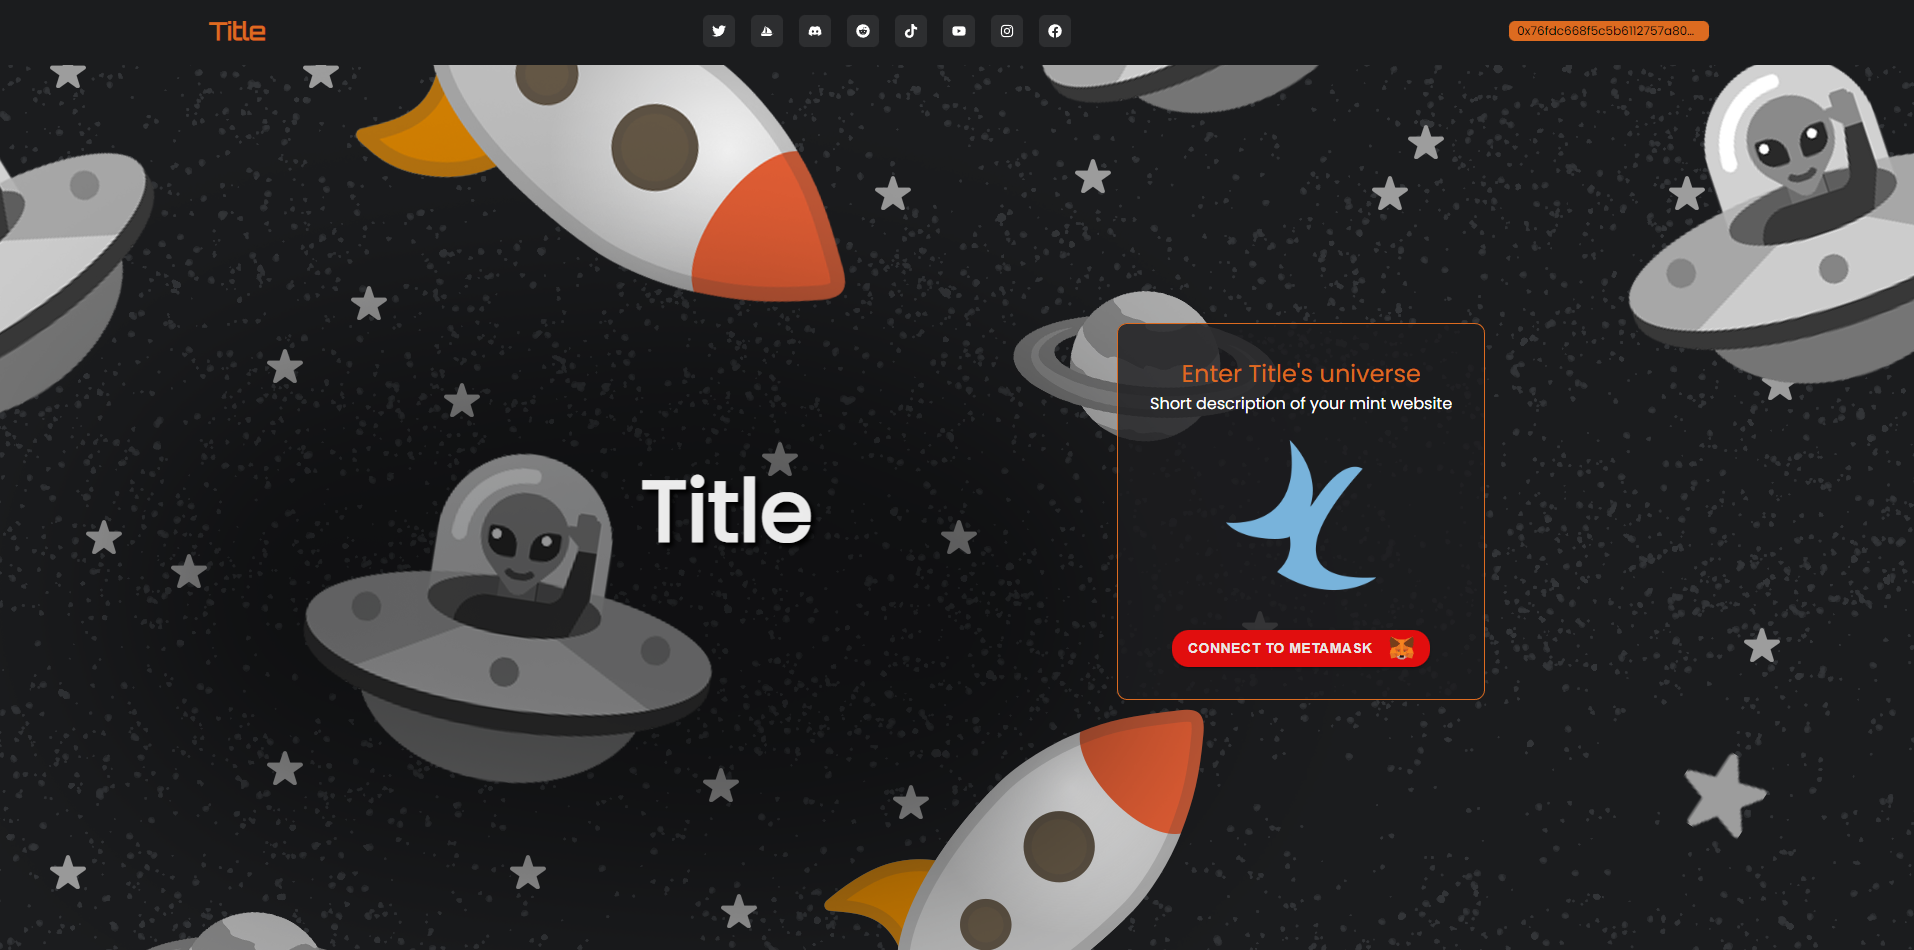
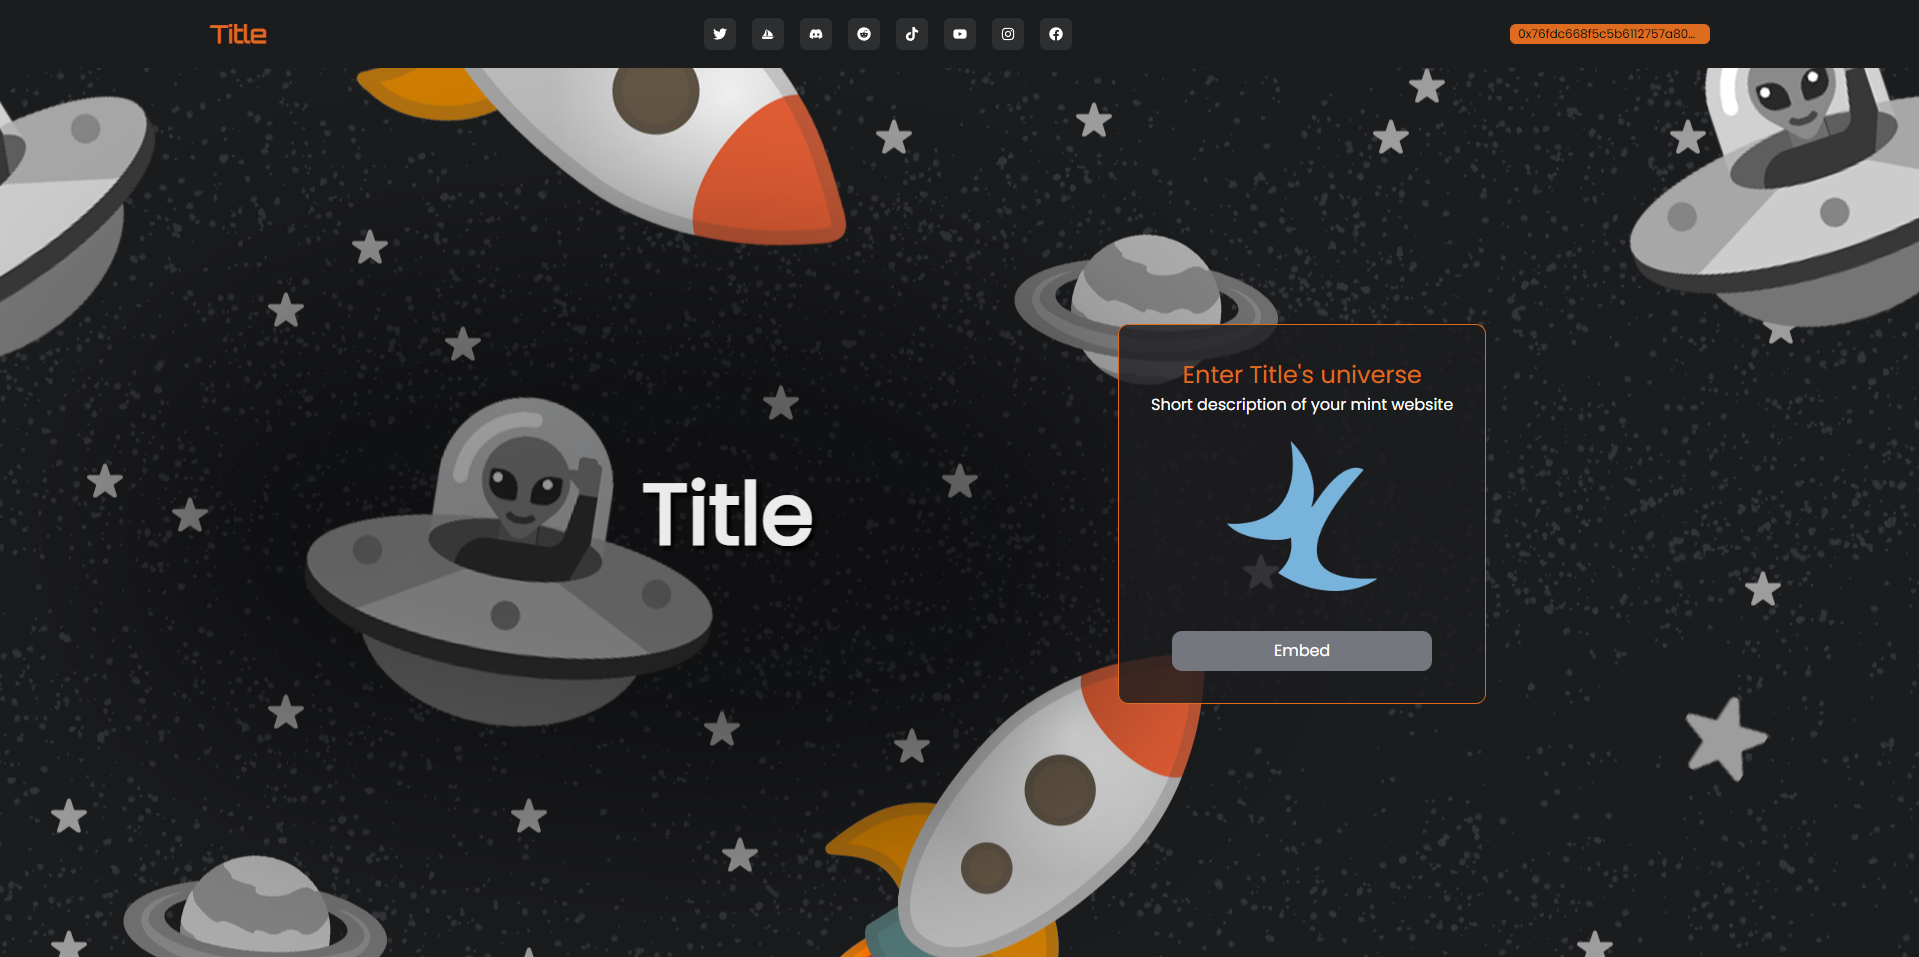
🚀 UPDATE: updated template 4 and 6

diff --git a/src/components/services/Website/SiteTemplates/Template6.js b/src/components/services/Website/SiteTemplates/Template6.js
@@ -40,11 +40,11 @@ const Template6 = () => {
                 flex='1' 
                 mt='2em'
             >
-                <Heading as='h1' textAlign='center' textShadow='4px 4px 4px black' fontSize='64pt'>
+                <Heading as='h1' textAlign='center' textShadow='4px 4px 4px black' fontSize='64pt' fontFamily='Rubik Wet Paint'>
                     {userWebsite?.components?.title}
                 </Heading>
                 <Box maxW='735px'>
-                    <Text fontSize='18pt' color='blackAlpha.800' mt='.5em'>
+                    <Text fontSize='18pt' color='blackAlpha.800' mt='1em'>
                         {userWebsite?.components?.description}
                     </Text>
                 </Box>
